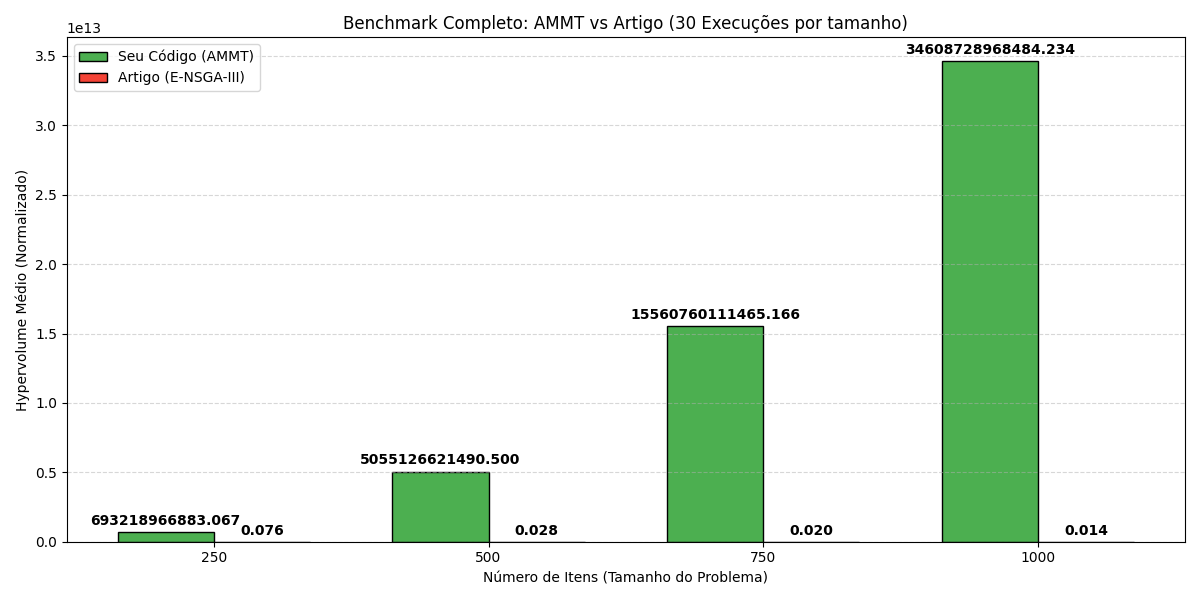
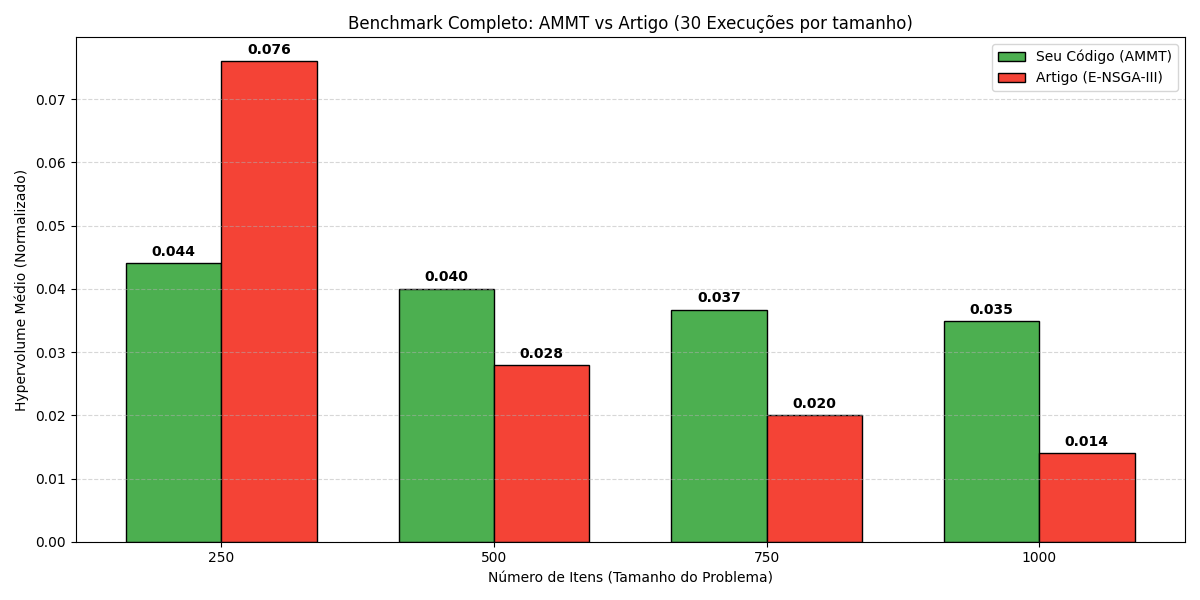
plot_tudo

diff --git a/plot_comparison.py b/plot_comparison.py
@@ -2,23 +2,35 @@ import matplotlib.pyplot as plt
 import numpy as np
 import os
 
+
 sizes = [250, 500, 750, 1000]
 files = [f"results_{s}_items.txt" for s in sizes]
 
-# --- DADOS APROXIMADOS DO ARTIGO (E-NSGA-III - Barras Vermelhas Fig. 3) ---
-paper_means = {
-    250: 0.076, 
-    500: 0.028, 
-    750: 0.020, 
-    1000: 0.014 
+
+paper_data = {
+    250:  {'min': 0.016, 'max': 0.129, 'avg': 0.076}, 
+    500:  {'min': 0.010, 'max': 0.048, 'avg': 0.028},
+    750:  {'min': 0.008, 'max': 0.034, 'avg': 0.020},
+    1000: {'min': 0.002, 'max': 0.021, 'avg': 0.014}
 }
 
-my_means = []
-paper_values = []
 
-print("\n--- RESUMO DO BENCHMARK ---")
+ammt_flat_values = []
+paper_flat_values = []
+x_labels = []
+
+print("\n--- RESUMO DO BENCHMARK (AMMT vs NSGA-III) ---")
 
 for s, filename in zip(sizes, files):
+    p_min = paper_data[s]['min']
+    p_max = paper_data[s]['max']
+    p_avg = paper_data[s]['avg']
+    paper_flat_values.extend([p_min, p_max, p_avg])
+    
+    
+    x_labels.extend([f"{s}\nMin", f"{s}\nMax", f"{s}\nAvg"])
+
+    
     if os.path.exists(filename):
         try:
             with open(filename, "r") as f:
@@ -26,38 +38,58 @@ for s, filename in zip(sizes, files):
                 
             if not raw_values:
                 print(f"Aviso: {filename} está vazio. Usando 0.0.")
-                my_means.append(0.0)
+                ammt_flat_values.extend([0.0, 0.0, 0.0])
             else:
-                avg_hv = np.mean(raw_values) 
-                my_means.append(avg_hv)
+                my_min = np.min(raw_values)
+                my_max = np.max(raw_values)
+                my_avg = np.mean(raw_values)
                 
-                print(f"Tamanho {s}: Seu HV Médio = {avg_hv:.4f} | Artigo = {paper_means[s]:.4f}")
+                ammt_flat_values.extend([my_min, my_max, my_avg])
+                
+                print(f"[{s} Itens] AMMT -> Min: {my_min:.4f} | Max: {my_max:.4f} | Avg: {my_avg:.4f}")
+                print(f"            NSGA3-> Min: {p_min:.4f} | Max: {p_max:.4f} | Avg: {p_avg:.4f}")
                 
         except Exception as e:
             print(f"Erro ao ler {filename}: {e}")
-            my_means.append(0.0)
+            ammt_flat_values.extend([0.0, 0.0, 0.0])
     else:
-        print(f"Arquivo {filename} não encontrado. Rodou o benchmark completo?")
-        my_means.append(0.0)
-    
-    paper_values.append(paper_means[s])
+        print(f"Arquivo {filename} não encontrado.")
+        ammt_flat_values.extend([0.0, 0.0, 0.0])
 
 
-x = np.arange(len(sizes))
+x = np.arange(len(x_labels))
 width = 0.35
 
-fig, ax = plt.subplots(figsize=(12, 6))
 
-rects1 = ax.bar(x - width/2, my_means, width, label='Seu Código (AMMT)', color='#4CAF50', edgecolor='black')
-rects2 = ax.bar(x + width/2, paper_values, width, label='Artigo (E-NSGA-III)', color='#F44336', edgecolor='black')
+group_gap = 1.0 
+x_positions = []
+current_pos = 0
+for i in range(len(sizes)):
+    for _ in range(3): 
+        x_positions.append(current_pos)
+        current_pos += 1
+    current_pos += group_gap
 
-ax.set_ylabel('Hypervolume Médio (Normalizado)')
-ax.set_xlabel('Número de Itens (Tamanho do Problema)')
-ax.set_title('Benchmark Completo: AMMT vs Artigo (30 Execuções por tamanho)')
-ax.set_xticks(x)
-ax.set_xticklabels(sizes)
+x_positions = np.array(x_positions)
+
+fig, ax = plt.subplots(figsize=(14, 7))
+
+
+rects1 = ax.bar(x_positions - width/2, ammt_flat_values, width, label='AMMT', color='#4CAF50', edgecolor='black')
+
+
+rects2 = ax.bar(x_positions + width/2, paper_flat_values, width, label='NSGA-III (Artigo)', color='#2196F3', edgecolor='black')
+
+ax.set_ylabel('Hypervolume (Normalizado)')
+ax.set_title('Benchmark Detalhado: AMMT vs NSGA-III (Min, Max, Média)\n(30 Execuções por tamanho)')
+ax.set_xticks(x_positions)
+ax.set_xticklabels(x_labels)
 ax.legend()
 ax.grid(axis='y', linestyle='--', alpha=0.5)
+
+max_y = max(max(ammt_flat_values), max(paper_flat_values))
+ax.set_ylim(0, max_y * 1.15)
+
 
 def autolabel(rects):
     for rect in rects:
@@ -66,11 +98,11 @@ def autolabel(rects):
                     xy=(rect.get_x() + rect.get_width() / 2, height),
                     xytext=(0, 3),
                     textcoords="offset points",
-                    ha='center', va='bottom', fontsize=10, fontweight='bold')
+                    ha='center', va='bottom', fontsize=8, rotation=90, fontweight='bold')
 
 autolabel(rects1)
 autolabel(rects2)
 
 plt.tight_layout()
-plt.savefig('benchmark_completo.png')
-print("\nGráfico salvo como 'benchmark_completo.png'")
+plt.savefig('comparacao_nsga3_completa.png')
+print("\nGráfico gerado: 'comparacao_nsga3_completa.png'")
